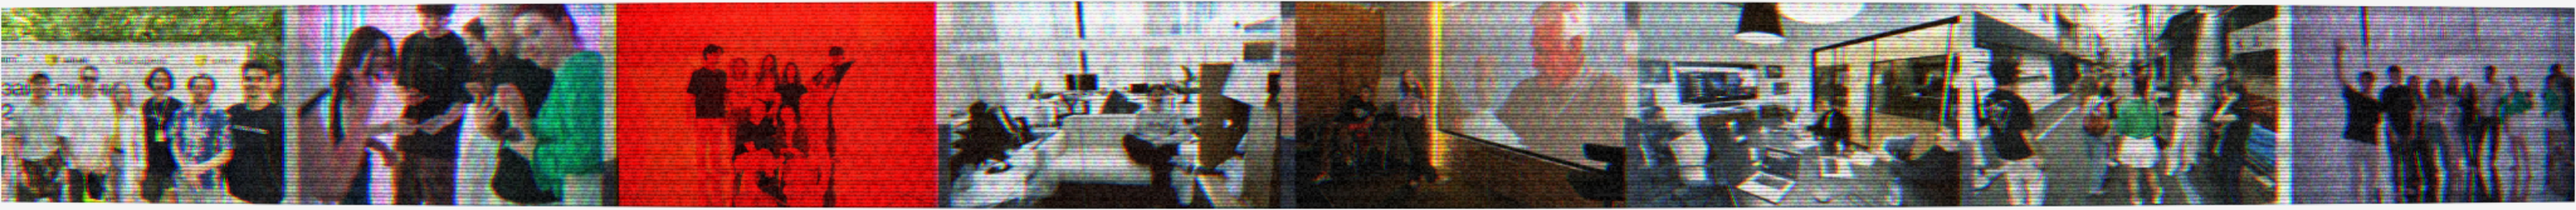
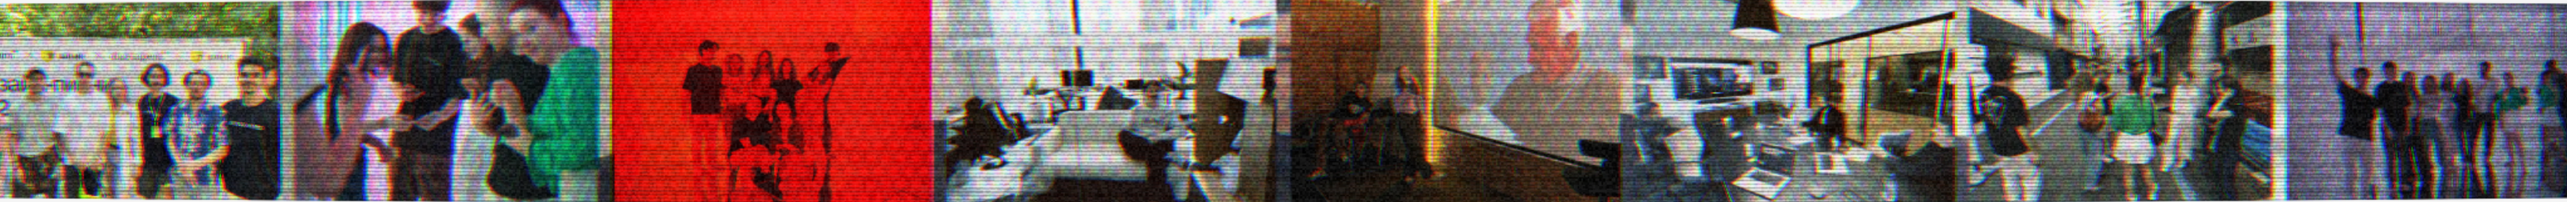
Careers: hero strip without white edges; values pinned with transitions
Hero:
- Cropped the light frame (≈ 3–7px, fading) off the team photo strip, so the
  photos meet the black background

Values (Figma 10100:14871 + 9457:5217 Care, 9457:5246 Craft):
- Values 02 Care (思いやり) and 03 Craft (技) added
- The value part pins; one screen of scrolling per value
- Kanji, label and description slide up out of a mask and the next value's
  slide in, word by word (same motion tokens as Services)
- Tabs 01–03 are the progress line: active tab black, its underline fills
  through that value (from Figma's 103/265); tabs are buttons that scroll to
  their value
- Layout matches Figma within 2px (kanji 67, label 784, text 838, tabs 1006,
  line on the robot's bottom edge); robot keeps the full column and crops on
  short windows
- Mobile: pinned too, text on top, robot fills the space above the nav pill
README updated.

diff --git a/README.md b/README.md
@@ -223,7 +223,7 @@ Every block file starts with a comment naming its Figma node and link.
 | | `services/ServicesBuilding` — "Building toward yes" + logos | 10103:1223 | rules |
 | Team | `team/TeamField` — objects field (WebGL poster) + 9 cards via `#id` | 10104:170, 10104:555 | needs design |
 | Careers | `careers/CareersHero` — title, stamps, text, photo strip | 10100:14718 | needs design |
-| | `careers/CareersValues` — values + robot (WebGL poster), tab 01 active | 10100:14871 | rules |
+| | `careers/CareersValues` — values 01–03 (Curiosity / Care / Craft), pinned, + robot (WebGL poster) | 10100:14871, 9457:5217, 9457:5246 | pinned (text + robot) |
 | | `careers/CareersPositions` — list from `positions` | 10100:14936 | rules |
 | Position | `position/PositionHero` | 10102:146 | rules |
 | | `position/PositionDetails` | 10102:1315 | rules |
@@ -254,6 +254,7 @@ script. Transitions are placeholders for the motion step.
 | **Showcase** "Make the … say yes" (`home/HomeShowcase`) | Starts inside the page margins. When it reaches the top it pins; the first half screen of scrolling widens it to full screen, then three screens move through the slides: the photo crossfades, the title and services list swap, the bright segment of the line grows. Mobile: already full width, slides only. | `--enter` (0→1, widening), `--progress` (0→1, line), `data-active` (slide 0–2) |
 | **Project wheel** (`work/ProjectScroller`) | Home: starts inside the margins, pins, widens to full screen, then the names turn on a real 3D drum (CSS perspective + rotateX/translateZ, faces all the way round, a whole number of project loops): names away from the front are foreshortened, keystoned and pulled toward the vanishing point; fade = Figma's wheel opacities. The front project sets the background (crossfade, 30% black overlay) and the services list. VIEW shows only while the front name is hovered or focused, 128px after it. CSS CRT layer from the Figma shader values (scanlines, aperture mask, vignette, noise, flicker, rolling band). Work page: full screen and **endless** — the page doesn't scroll; wheel / trackpad / touch drag / arrow, Page Up/Down and space keys turn the drum forever in both directions, easing and settling the nearest project at the front (`infinite` prop). Mobile: no wheel — full-screen project slides that pin and change on scroll (photo crossfade, name / services / VIEW swap, progress line), like the showcase. | `--enter`, `--rot` (drum angle), `.is-front`, `.is-current`, `.is-hovering`; mobile: `--progress`, `.is-current` |
 | **Services** (`services/ServicesScroller`) | Pins; one screen per service. Progress line on top fills a third per service. Left: label, title words and each service slide up out of a mask and the next service's slide in (staggered). Right: the next image slides in from the bottom over the previous one (clip-path + slight rise). Mobile: the three services stacked, no pin. | `data-state` (past / current / next), `--progress` |
+| **Careers values** (`careers/CareersValues`) | Pins; one screen per value (Curiosity → Care → Craft). Kanji, label and description slide up out of a mask and the next value's slide in, word by word (same style as Services). Tabs 01–03 = progress: the active tab turns black and its underline fills through that value; clicking a tab scrolls to it. The robot stays (same image for all values). Mobile: pinned too, robot below the text. | `data-state`, `--local`, `.is-active` |
 | **News** (`home/HomeNews`) | The card row scrolls sideways: trackpad / shift + wheel, arrow keys when focused, click-and-drag with a mouse. Cards snap to the page margin; a drag never opens a card. | `.is-dragging` |
 
 Phones: progress is measured against the pinned block's own height (not the window),
